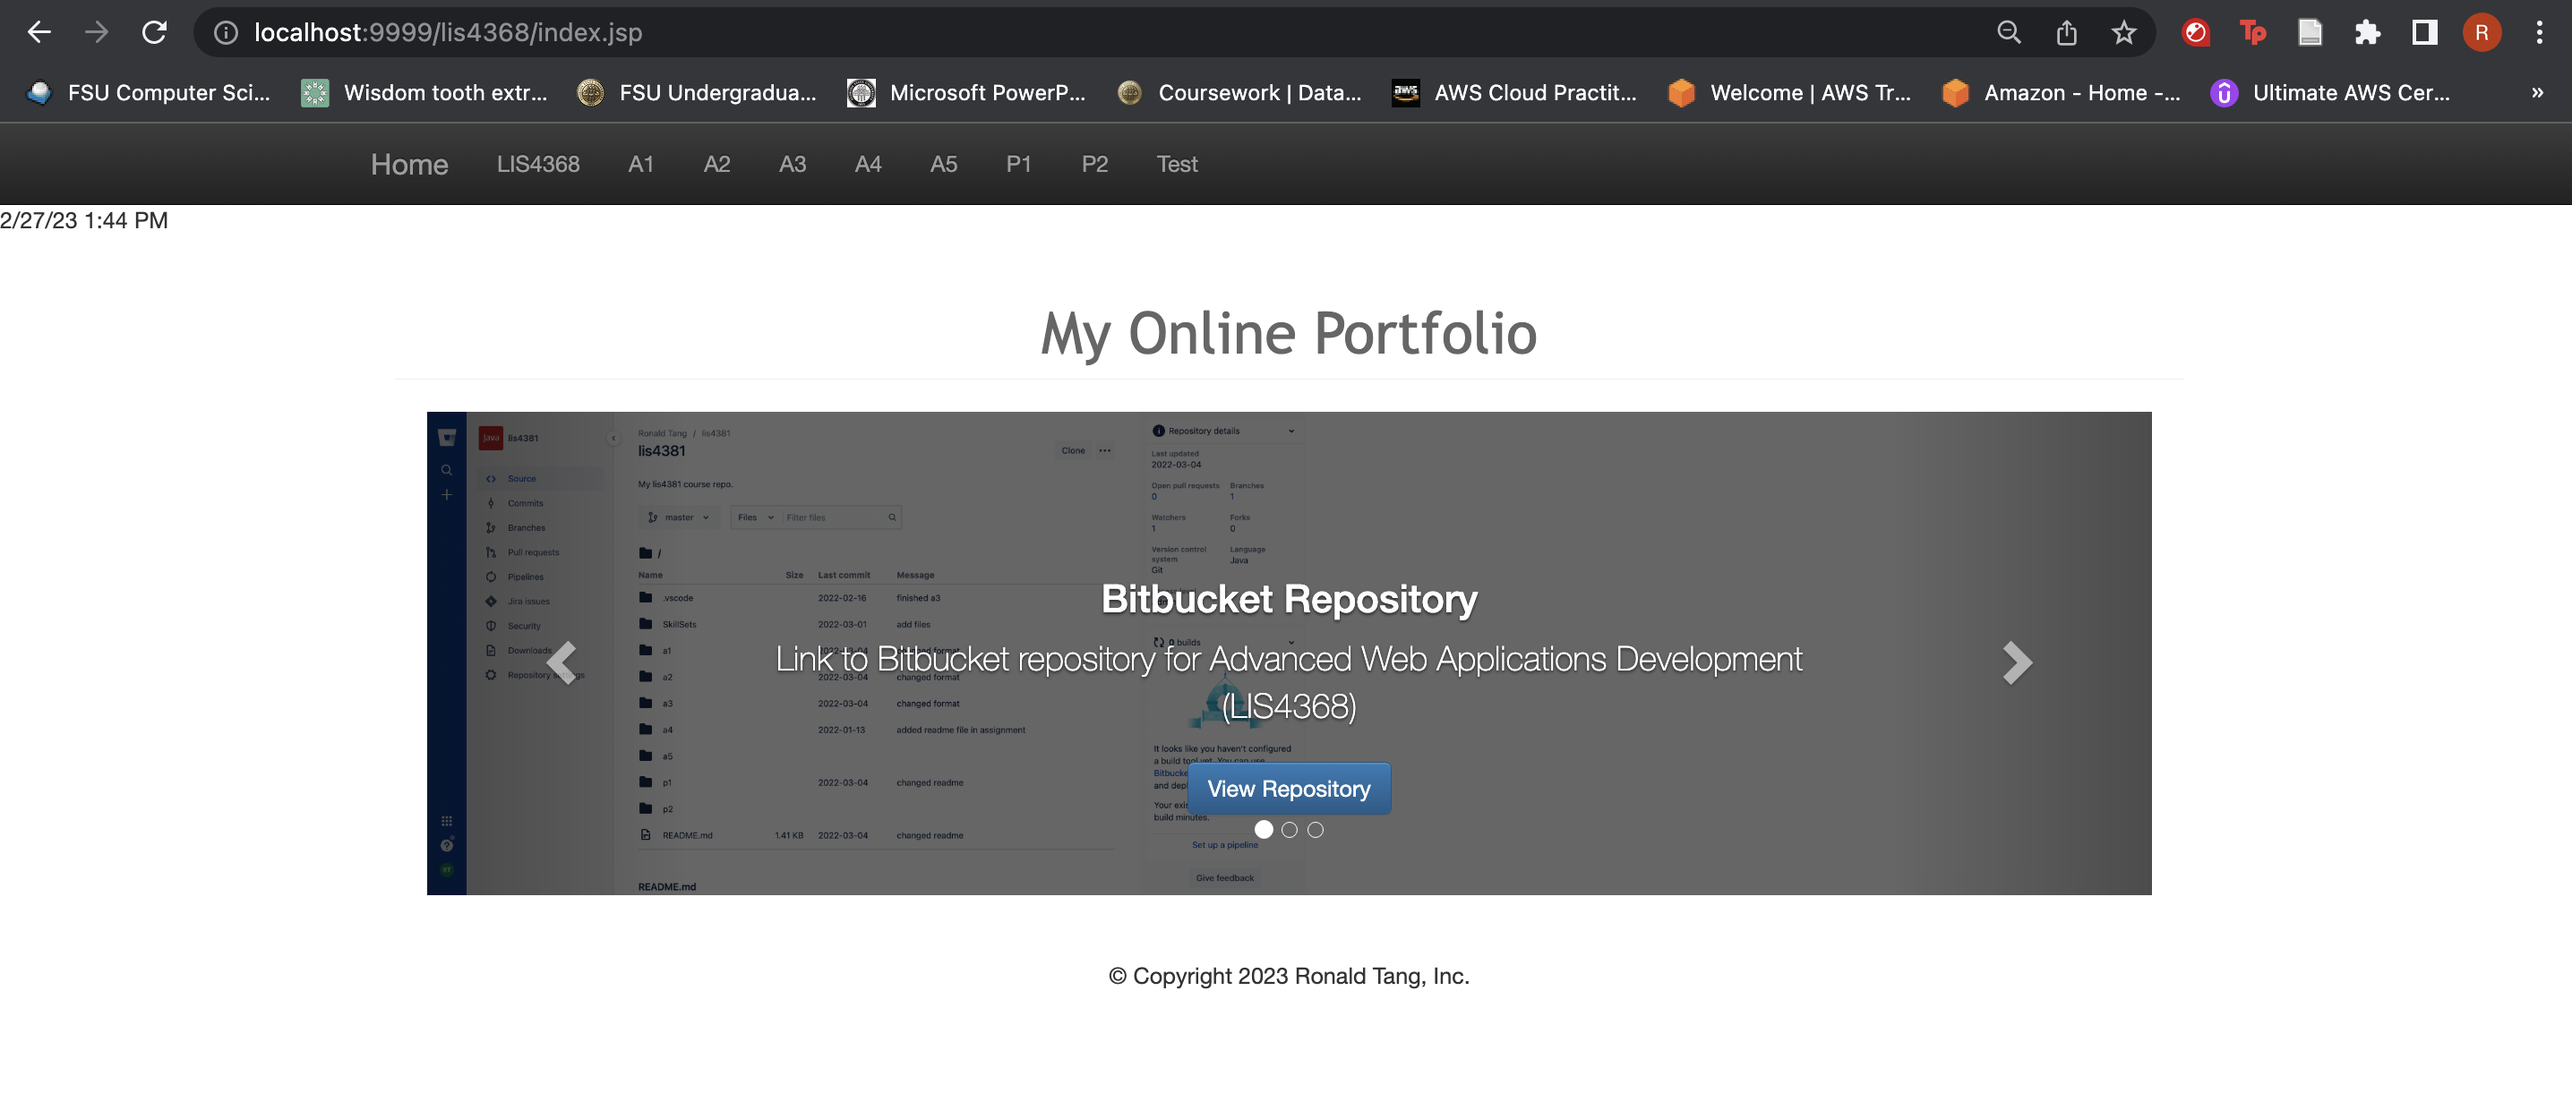
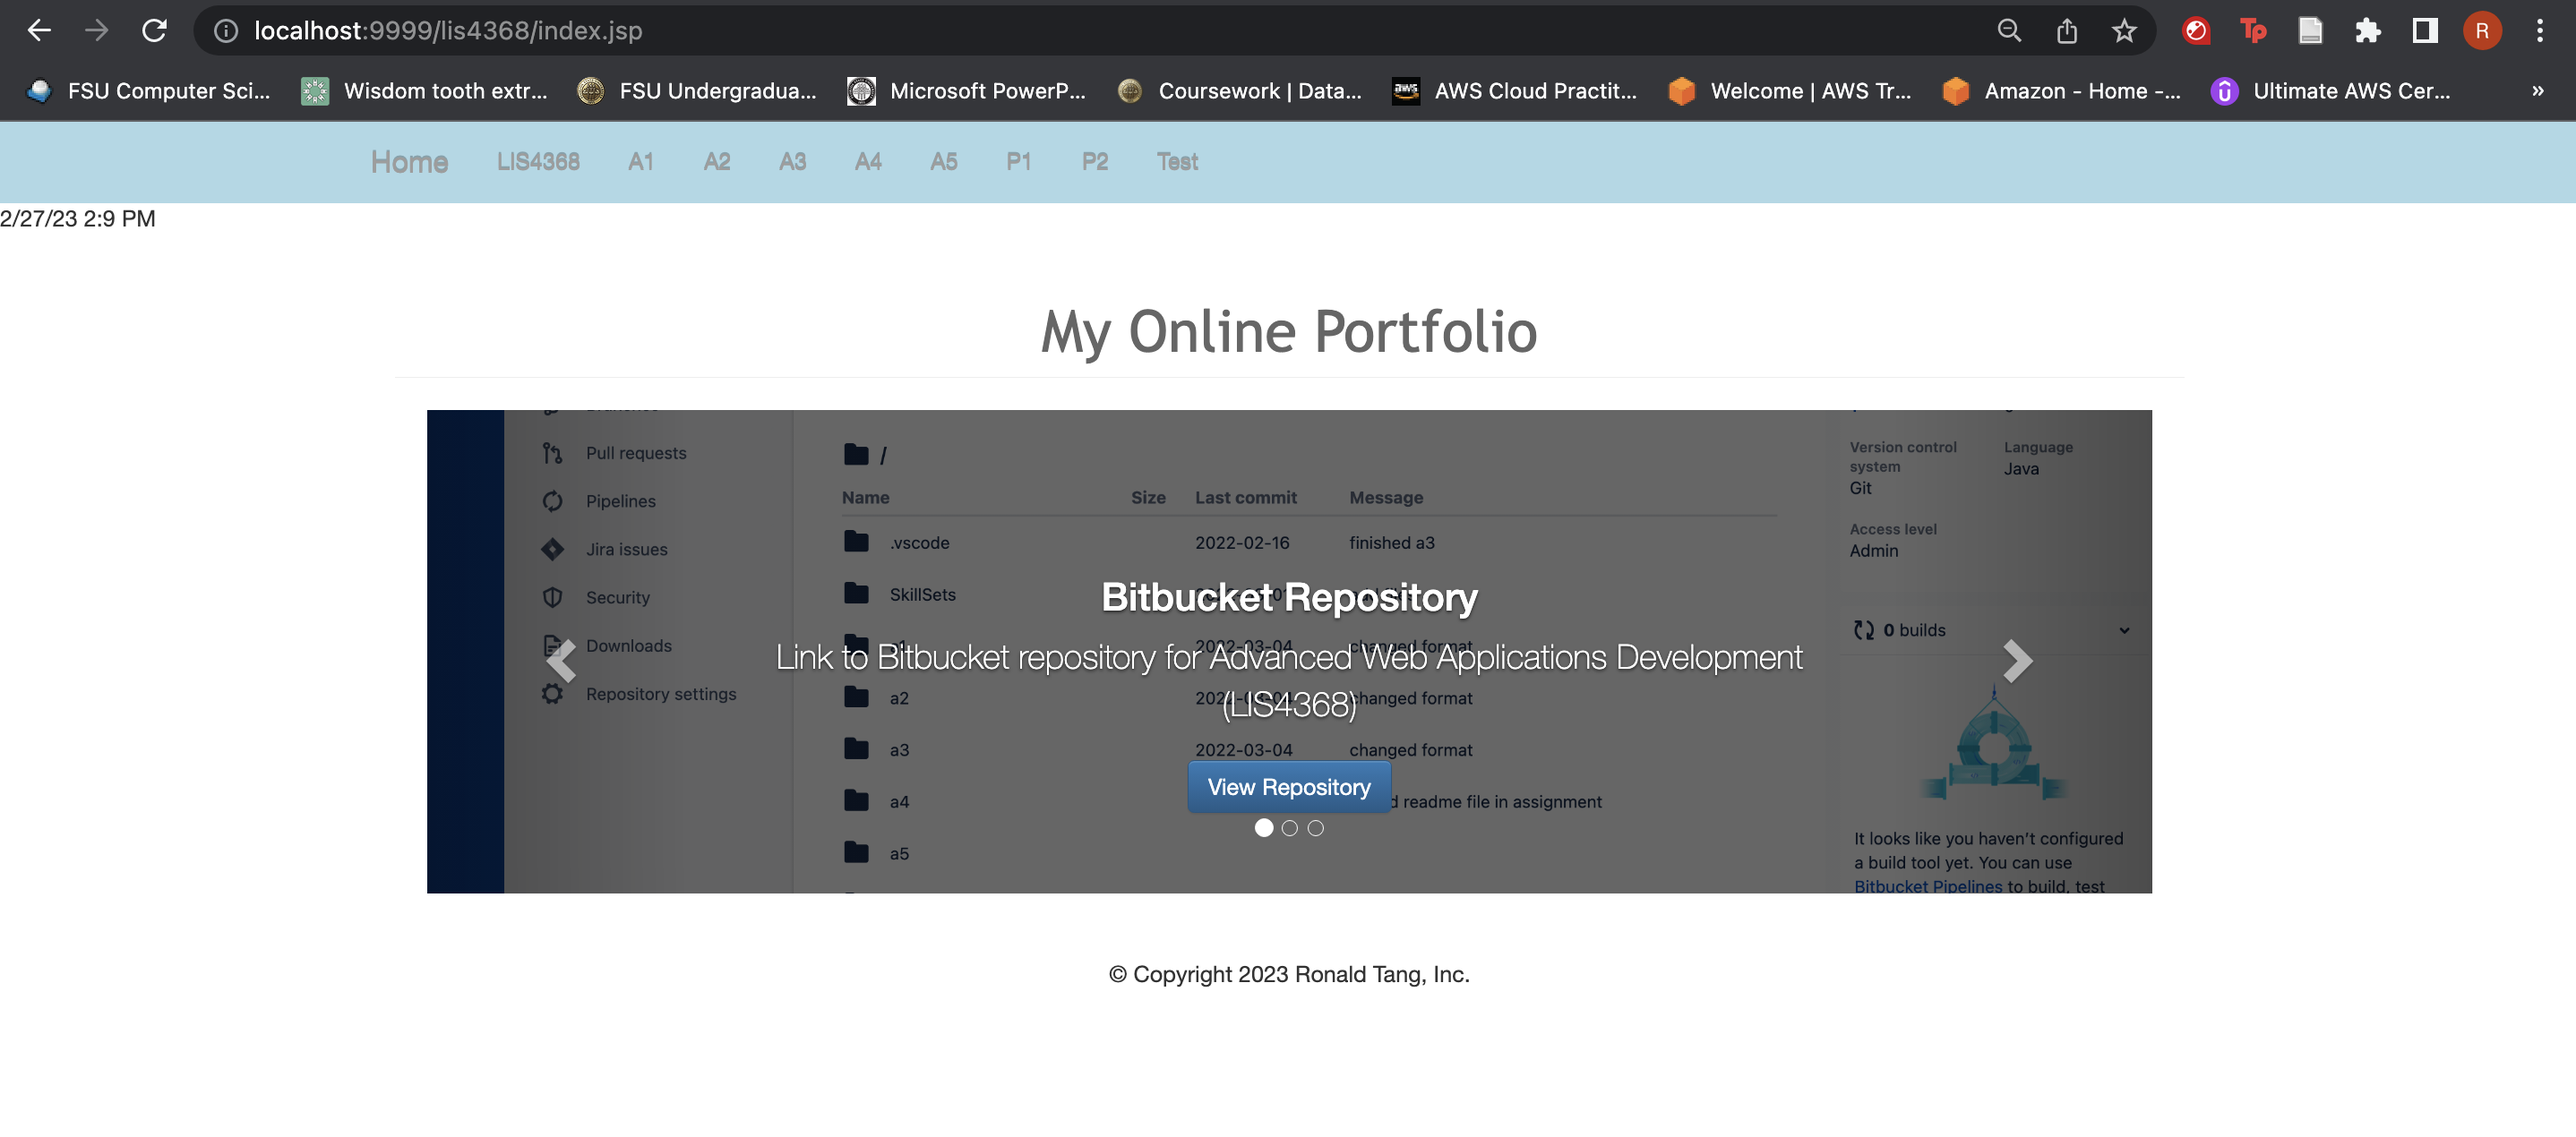
added new image

diff --git a/WEB-INF/css/starter-template.css b/WEB-INF/css/starter-template.css
@@ -15,3 +15,8 @@ h1
 	font-size: 36px;
 	font-family: "trebuchet ms", sans-serif;    
 }
+.navbar-inverse {
+	background-image: none;
+	background-color: lightblue !important;
+	border-color: lightblue !important;
+}
